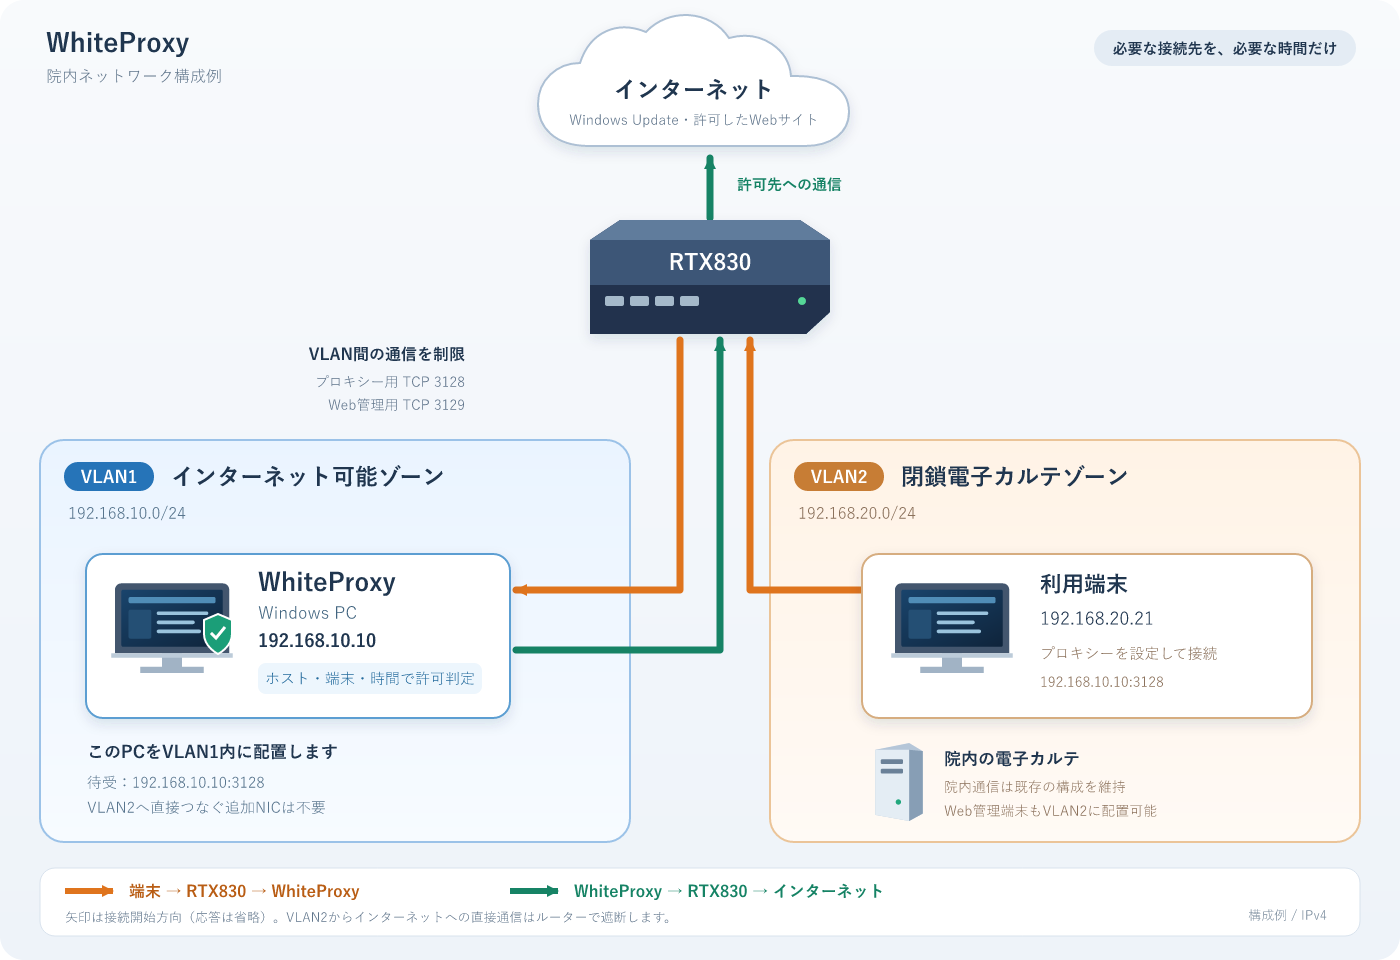
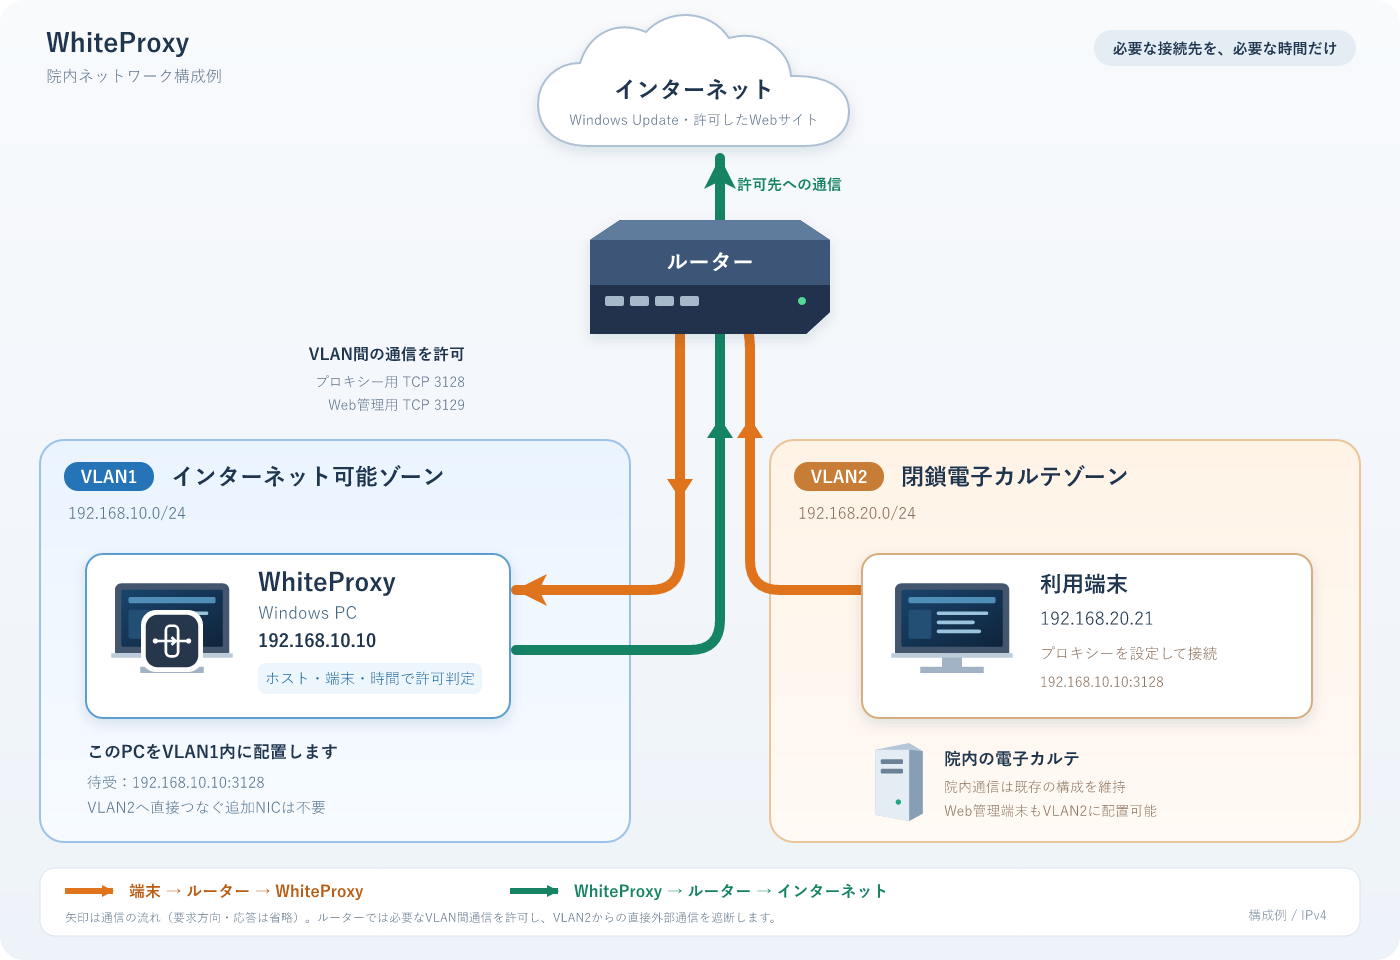
GitHub Copilot <final_answer> README.md:1-40 network-overview.png:binary network-overview.svg:1-220 user-guide.md:1-80 </final_answer>

diff --git a/docs/user-guide.md b/docs/user-guide.md
@@ -4,11 +4,11 @@
 
 ## 1. 院内VLAN構成例と配置
 
-WhiteProxyを動かすWindows PCを、**VLAN1（インターネット可能ゾーン）** に置きます。VLAN2（閉鎖電子カルテゾーン）の端末は、RTX830を経由してこのPCに接続します。プロキシー用PCのLAN接続はVLAN1だけで構いません。
+WhiteProxyを動かすWindows PCを、**VLAN1（インターネット可能ゾーン）** に置きます。VLAN2（閉鎖電子カルテゾーン）の端末は、ルーターを経由してこのPCに接続します。プロキシー用PCのLAN接続はVLAN1だけで構いません。
 
-![VLAN1とVLAN2を分けた院内ネットワーク図。VLAN2の端末からRTX830を経由してVLAN1のWhiteProxyへ接続する。](images/network-overview.png)
+![VLAN1とVLAN2を分けた院内ネットワーク図。VLAN2の端末からルーターを経由してVLAN1のWhiteProxyへ接続する。](images/network-overview.png)
 
-**オレンジの矢印**は端末からRTX830を経由してWhiteProxyへ接続する流れ、**緑の矢印**はWhiteProxyからRTX830を経由してインターネットへ接続する流れです。応答方向の矢印は省略しています。
+**オレンジの矢印**は端末からルーターを経由してWhiteProxyへ接続する流れ、**緑の矢印**はWhiteProxyからルーターを経由してインターネットへ接続する流れです。応答方向の矢印は省略しています。
 
 | 項目 | このガイドの例 |
 | --- | --- |

diff --git a/README.md b/README.md
@@ -2,7 +2,7 @@
 
 院内の閉鎖ネットワークにある端末から、必要なWebサービスだけを、必要な時間だけ利用するためのWindows用プロキシーです。Windows Updateなどの接続先を登録し、端末ごとに許可・遮断を切り替えます。
 
-![VLAN1内のWhiteProxyへ、VLAN2からRTX830を介して接続する構成例。オレンジは端末からプロキシーへの接続、緑はプロキシーからインターネットへの接続。](docs/images/network-overview.png)
+![VLAN1内のWhiteProxyへ、VLAN2からルーターを介して接続する構成例。オレンジは端末からプロキシーへの接続、緑はプロキシーからインターネットへの接続。](docs/images/network-overview.png)
 
 **初めて使う方は [導入・操作ガイド](docs/user-guide.md) をお読みください。** VLAN1をインターネット可能ゾーン、VLAN2を閉鎖電子カルテゾーンとした例で、設置から日常操作まで説明しています。
 
